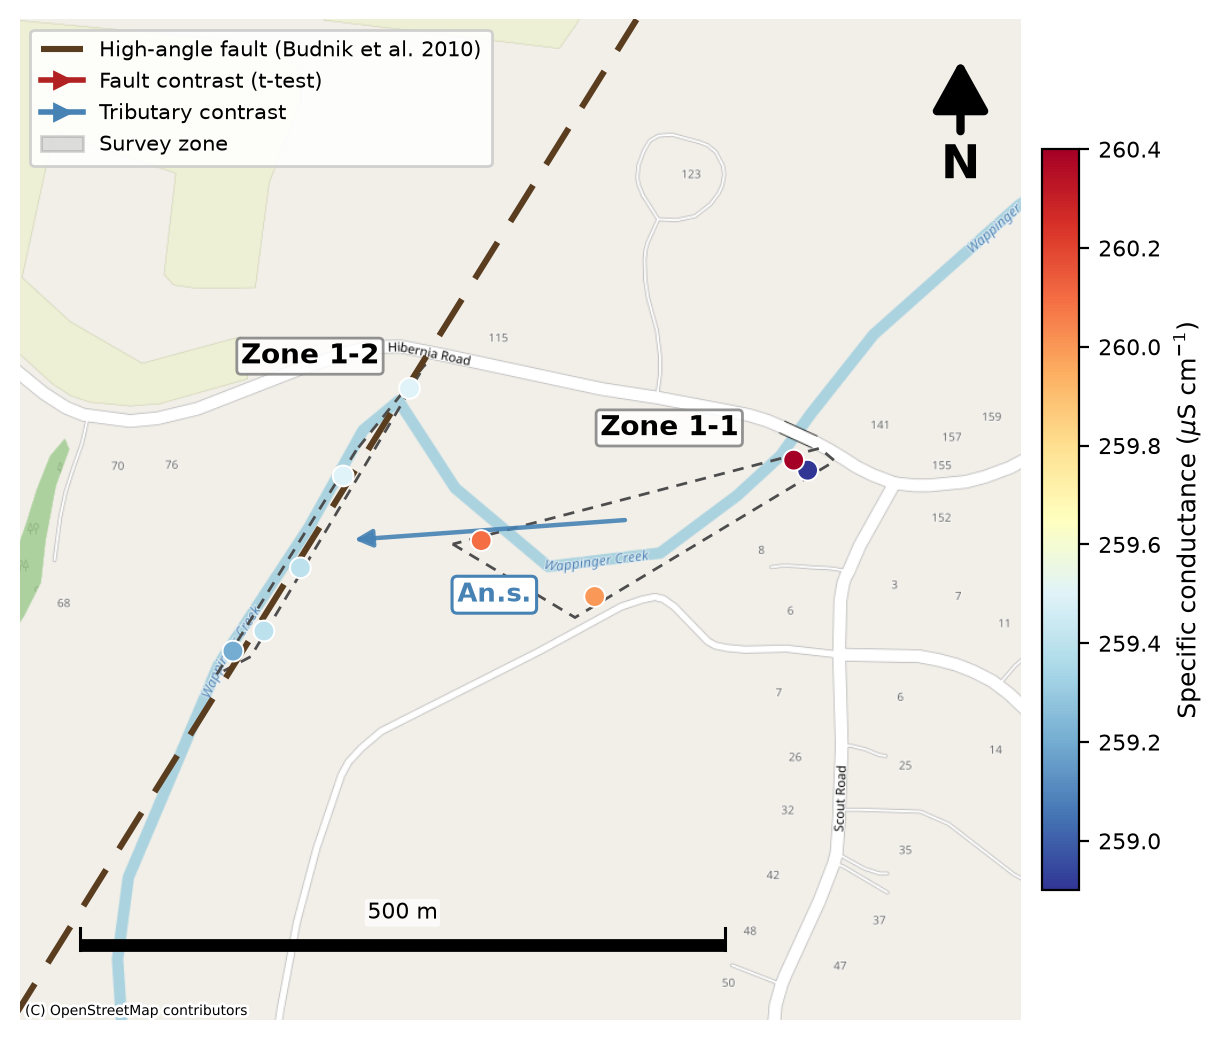
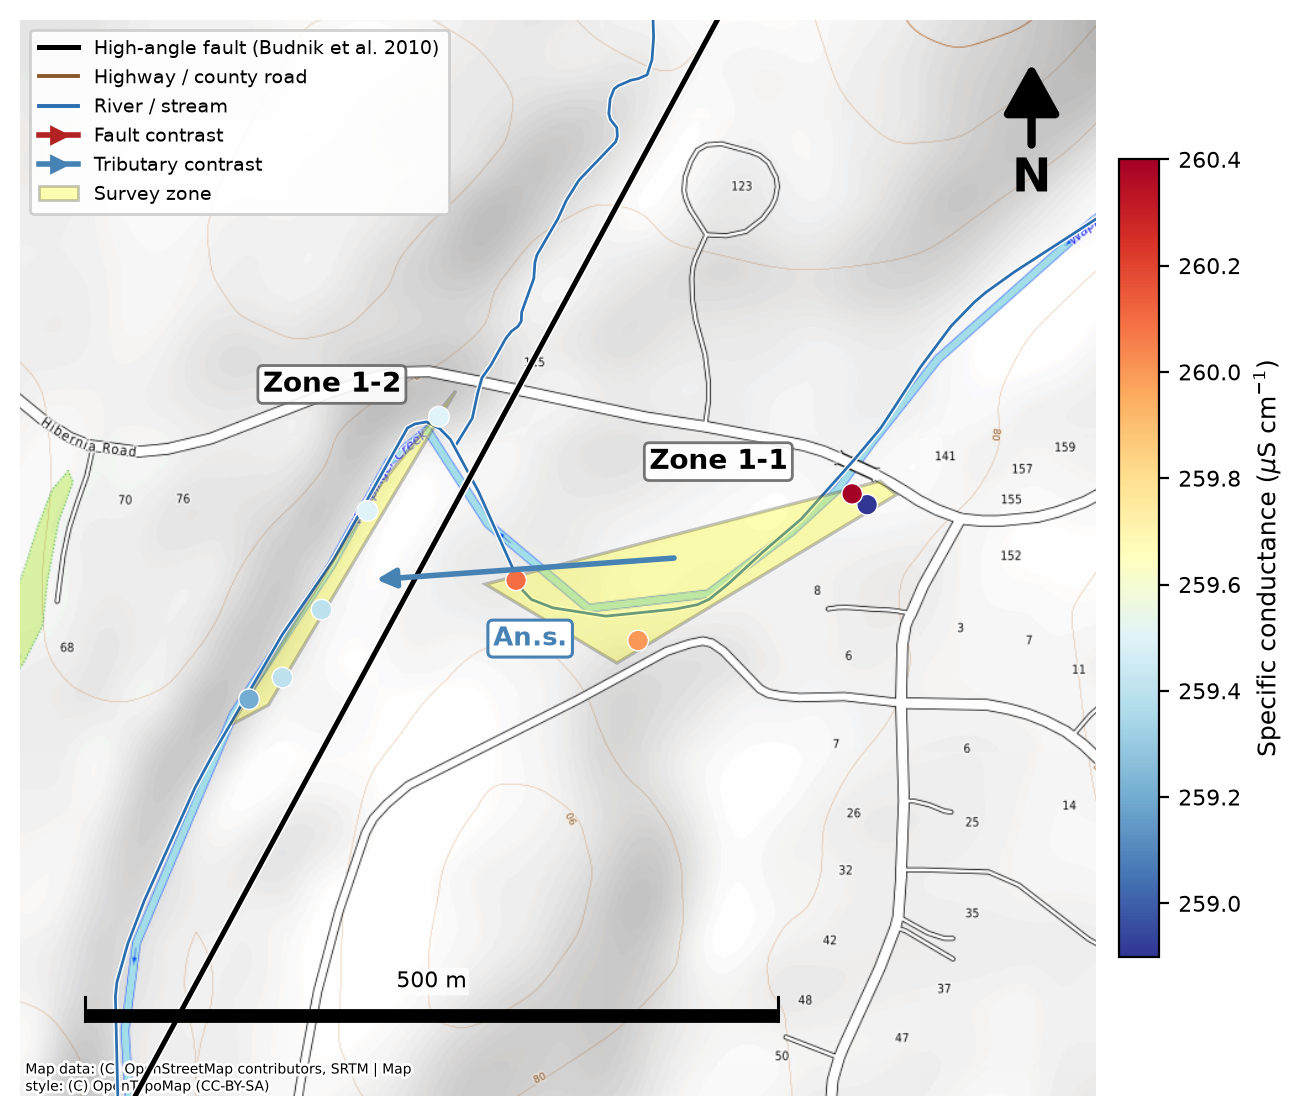
Site maps (Figs 2-4): restyle to match overview
- OpenTopoMap terrain basemap + TIGER roads (brown) and rivers (blue)
- Traced Budnik faults (black) clipped to each site extent, replacing the
  InFault-fit line
- Highlighted (yellow) survey zones with labels; solid EC-coloured dots
- Contrast arrows carry Welch significance from src/stats.py
- Colour bar + legend (fault, road, river, contrasts, zone)

diff --git a/src/maps.py b/src/maps.py
@@ -188,8 +188,9 @@ def _runs(xs, ys):
         yield xs[s:e], ys[s:e]
 
 
-def _zone_patch(ax, xs, ys, pad):
-    """Shade a survey zone as a padded convex hull (grey, translucent)."""
+def _zone_patch(ax, xs, ys, pad, facecolor="yellow", alpha=0.30,
+                edgecolor="0.25", zorder=4):
+    """Shade a survey zone as a padded convex hull (highlighted region)."""
     from scipy.spatial import ConvexHull, QhullError
 
     pts = np.column_stack([xs, ys])
@@ -206,9 +207,8 @@ def _zone_patch(ax, xs, ys, pad):
     d = poly - c
     n = np.linalg.norm(d, axis=1, keepdims=True)
     poly = poly + d / np.maximum(n, 1e-9) * pad  # push vertices out by `pad`
-    # Outline-only (no fill) so the data points are never obscured.
-    ax.add_patch(MplPolygon(poly, closed=True, facecolor="none",
-                            edgecolor="0.30", lw=1.0, ls=(0, (4, 3)), zorder=2))
+    ax.add_patch(MplPolygon(poly, closed=True, facecolor=facecolor, alpha=alpha,
+                            edgecolor=edgecolor, lw=1.2, zorder=zorder))
 
 
 def _fault_line(ax, fault_pts, cx0, cy0, half):
@@ -230,7 +230,10 @@ def _fault_line(ax, fault_pts, cx0, cy0, half):
 
 
 def draw_site(site, df, zframes, welch):
+    """Site map matching the overview style: OpenTopoMap terrain + TIGER roads
+    and rivers + traced Budnik faults + highlighted zones + EC-coloured dots."""
     import pandas as pd
+    import matplotlib.patheffects as pe
     zones = SITE_ZONES[site]
     site_pts = pd.concat([zframes[z] for z in zones])
     clat = float(site_pts["lat"].mean())
@@ -239,17 +242,36 @@ def draw_site(site, df, zframes, welch):
     px, py = np.array(px), np.array(py)
     cx0, cy0 = (px.min() + px.max()) / 2, (py.min() + py.max()) / 2
     span = max(np.ptp(px), np.ptp(py))
-    half = span * 0.72 + 90  # points fill ~60% of the frame
+    half = span * 0.72 + 90
 
-    fig, ax = plt.subplots(figsize=(6.0, 5.4))
+    fig, ax = plt.subplots(figsize=(6.4, 5.6))
     ax.set_xlim(cx0 - half, cx0 + half)
     ax.set_ylim(cy0 - half, cy0 + half)
     ax.set_aspect("equal")
+    ax.set_axis_off()
+    add_basemap_safe(ax, source=cx.providers.OpenTopoMap)
+
+    def halo(w):
+        return [pe.withStroke(linewidth=w, foreground="white")]
+
+    # roads (brown) and rivers (blue) -- matplotlib clips to the axes extent
+    for seg in load_roads():
+        rx, ry = zip(*[merc(lo, la) for lo, la in seg])
+        ax.plot(rx, ry, color="#8a5a2b", lw=1.1, zorder=3, path_effects=halo(2.2))
+    for seg in load_rivers():
+        rx, ry = zip(*[merc(lo, la) for lo, la in seg])
+        ax.plot(rx, ry, color="#2b6fb0", lw=1.0, zorder=3, path_effects=halo(2.0))
+
+    # faults (traced Budnik lines, clipped to the site extent)
+    for coords in load_budnik_faults().values():
+        fx, fy = zip(*[merc(lo, la) for lo, la in coords])
+        ax.plot(fx, fy, color="black", lw=1.8, solid_capstyle="round", zorder=4,
+                path_effects=halo(3.0))
 
     ec_all = site_pts["EC"].to_numpy(dtype=float)
     norm = Normalize(vmin=ec_all.min(), vmax=ec_all.max())
 
-    # shaded zones (one region per contiguous run; only 3-2 splits)
+    # highlighted zones + labels; remember centroids for the contrast arrows
     centroids = {}
     for z in zones:
         fr = zframes[z]
@@ -260,75 +282,61 @@ def draw_site(site, df, zframes, welch):
         ax.annotate(f"Zone {z}", (xs.mean(), ys.max()),
                     textcoords="offset points", xytext=(0, 9),
                     fontsize=10, fontweight="bold", zorder=7, ha="center",
-                    bbox=dict(boxstyle="round,pad=0.15", fc="white",
-                              ec="0.5", alpha=0.85))
+                    bbox=dict(boxstyle="round,pad=0.18", fc="white",
+                              ec="0.4", alpha=0.9))
         centroids[z] = (xs.mean(), ys.mean())
 
-    add_basemap_safe(ax)
-    has_fault = _fault_line(ax, site_pts[site_pts["InFault"] == "yes"],
-                            cx0, cy0, half)
-
-    # survey points coloured by specific conductance
+    # survey points -- solid dots coloured by specific conductance
     for z in zones:
         fr = zframes[z]
         xs, ys = zip(*[merc(lo, la) for lo, la in zip(fr["lon"], fr["lat"])])
         ax.scatter(xs, ys, c=fr["EC"].to_numpy(dtype=float), cmap=EC_CMAP,
-                   norm=norm, s=56, edgecolor="white", linewidth=0.7, zorder=6)
+                   norm=norm, s=55, edgecolor="white", linewidth=0.5, zorder=6)
 
-    # contrast arrows (fault = red, tributary = blue) with Welch significance;
-    # drawn UNDER the data points so the points stay visible.
+    # contrast arrows (fault = red, tributary = blue) with Welch significance
     for name, a, b, kind in CONTRASTS:
         if a in centroids and b in centroids:
             (xa, ya), (xb, yb) = centroids[a], centroids[b]
             color = "firebrick" if kind == "fault" else "steelblue"
             ax.add_patch(FancyArrowPatch((xa, ya), (xb, yb), arrowstyle="-|>",
-                                         mutation_scale=13, color=color, lw=1.6,
-                                         zorder=4, shrinkA=16, shrinkB=16,
-                                         alpha=0.9))
+                                         mutation_scale=14, color=color, lw=2.0,
+                                         zorder=7, shrinkA=16, shrinkB=16))
             sig = "*" if welch[name] < 0.05 else "n.s."
-            # place the label offset perpendicular to the arrow, off the points
             dx, dy = xb - xa, yb - ya
             L = math.hypot(dx, dy) or 1.0
             ox, oy = -dy / L, dx / L
             off = half * 0.13
             ax.text((xa + xb) / 2 + ox * off, (ya + yb) / 2 + oy * off,
                     f"{name}{sig}", color=color, fontsize=9.5, fontweight="bold",
-                    zorder=8, ha="center", va="center",
+                    zorder=9, ha="center", va="center",
                     bbox=dict(boxstyle="round,pad=0.2", fc="white", ec=color,
                               lw=1.1))
 
-    _decorate(ax, fig, cx0, cy0, half, clat, norm, has_fault)
+    add_scalebar(ax, _round_scale(half * math.cos(math.radians(clat))), clat)
+    north_arrow(ax)
+    sm = ScalarMappable(norm=norm, cmap=EC_CMAP)
+    cb = fig.colorbar(sm, ax=ax, fraction=0.035, pad=0.02)
+    cb.set_label(r"Specific conductance ($\mu$S cm$^{-1}$)", fontsize=9)
+    cb.ax.tick_params(labelsize=8)
+    handles = [
+        Line2D([0], [0], color="black", lw=1.8,
+               label="High-angle fault (Budnik et al. 2010)"),
+        Line2D([0], [0], color="#8a5a2b", lw=1.4, label="Highway / county road"),
+        Line2D([0], [0], color="#2b6fb0", lw=1.4, label="River / stream"),
+        Line2D([0], [0], color="firebrick", lw=2, marker=">",
+               label="Fault contrast"),
+        Line2D([0], [0], color="steelblue", lw=2, marker=">",
+               label="Tributary contrast"),
+        Patch(facecolor="yellow", alpha=0.3, edgecolor="0.25",
+              label="Survey zone"),
+    ]
+    ax.legend(handles=handles, loc="upper left", fontsize=7,
+              framealpha=0.9, borderpad=0.5).set_zorder(10)
     fig.tight_layout(pad=0.3)
     out = FIG / f"site{site}.png"
     fig.savefig(out, dpi=200, bbox_inches="tight")
     plt.close(fig)
     print(f"wrote {out.relative_to(FIG.parent)}")
-
-
-def _decorate(ax, fig, cx0, cy0, half, clat, norm, has_fault):
-    """Add scale bar, north arrow, colour bar, and legend."""
-    add_scalebar(ax, _round_scale(half * math.cos(math.radians(clat))), clat)
-    north_arrow(ax)
-    ax.set_axis_off()
-
-    sm = ScalarMappable(norm=norm, cmap=EC_CMAP)
-    cb = fig.colorbar(sm, ax=ax, fraction=0.035, pad=0.02)
-    cb.set_label(r"Specific conductance ($\mu$S cm$^{-1}$)", fontsize=9)
-    cb.ax.tick_params(labelsize=8)
-
-    handles = [
-        Line2D([0], [0], color="firebrick", lw=2, marker=">",
-               label="Fault contrast (t-test)"),
-        Line2D([0], [0], color="steelblue", lw=2, marker=">",
-               label="Tributary contrast"),
-        Patch(facecolor="0.35", alpha=0.2, edgecolor="0.25", label="Survey zone"),
-    ]
-    if has_fault:
-        handles.insert(0, Line2D([0], [0], color="#5a3d1e", lw=2.2,
-                                 ls=(0, (7, 4)),
-                                 label="High-angle fault (Budnik et al. 2010)"))
-    ax.legend(handles=handles, loc="upper left", fontsize=7.5,
-              framealpha=0.9, borderpad=0.5).set_zorder(9)
 
 
 def merc_inv(x, y):
